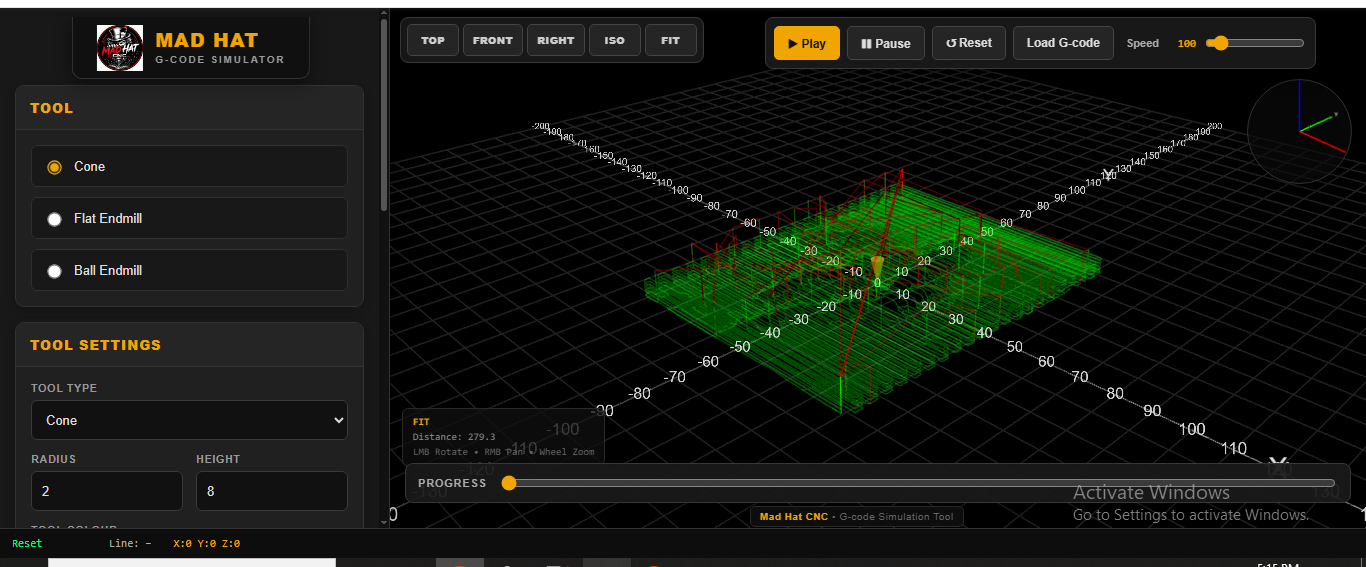
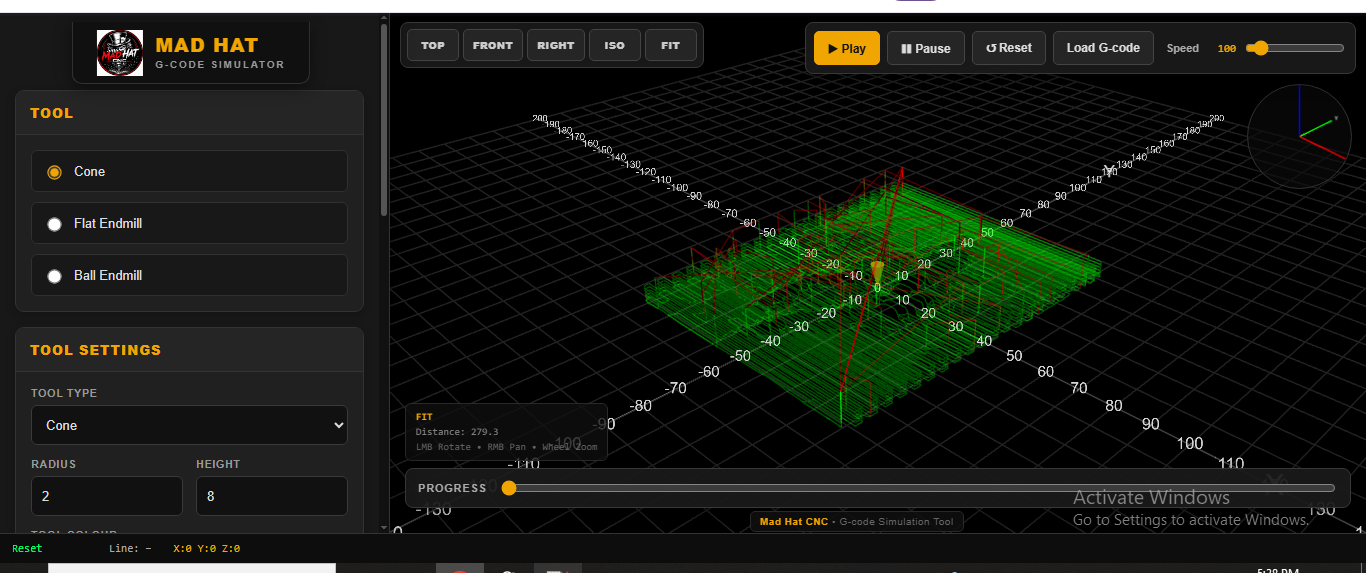
Update

diff --git a/Simulator5.17.html b/Simulator5.17.html
@@ -728,8 +728,8 @@ input[type="color"] {
 #viewportHud {
     position: absolute;
 
-    left: 12px;
-    bottom: 62px;
+    left: 15px;
+    bottom: 72px;
 
     z-index: 20;
 
@@ -800,7 +800,7 @@ input[type="color"] {
     position: absolute;
 
     top: 10px;
-    right: 50px;
+    right: 10px;
 
     z-index: 20;
 
